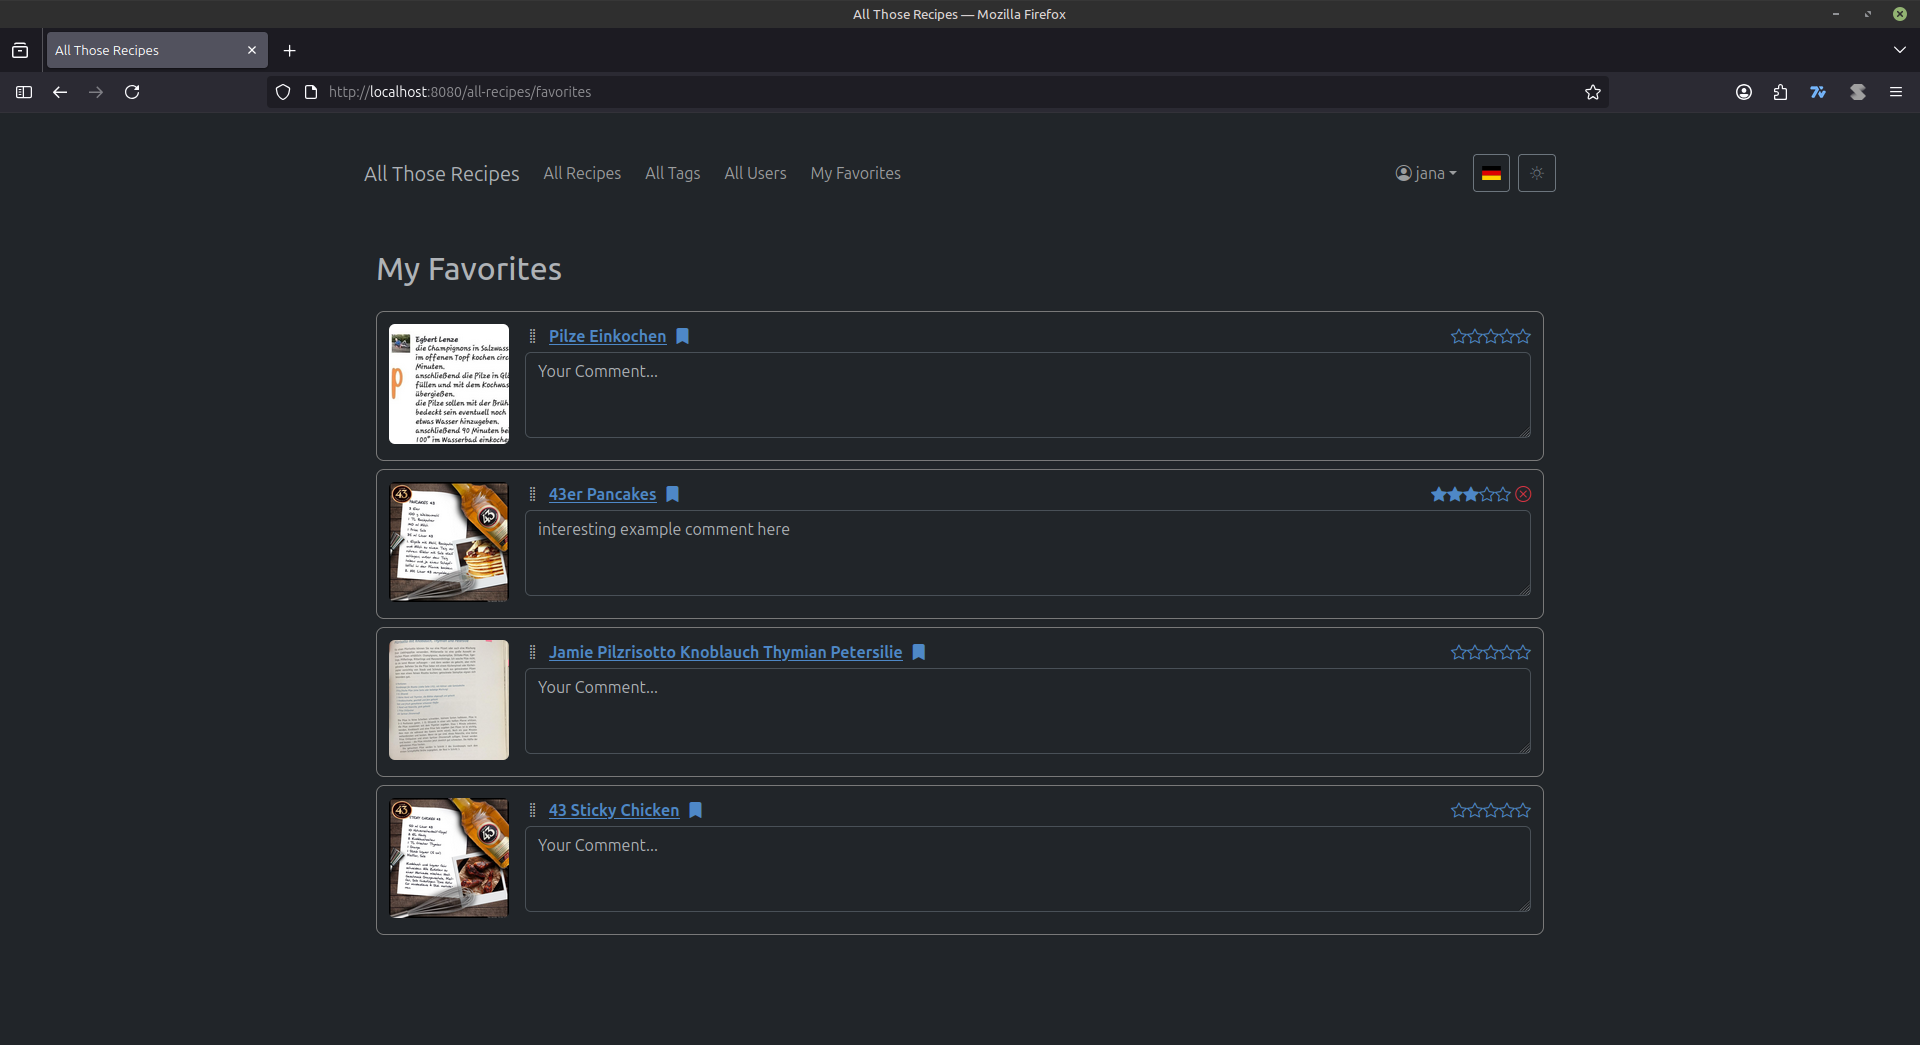
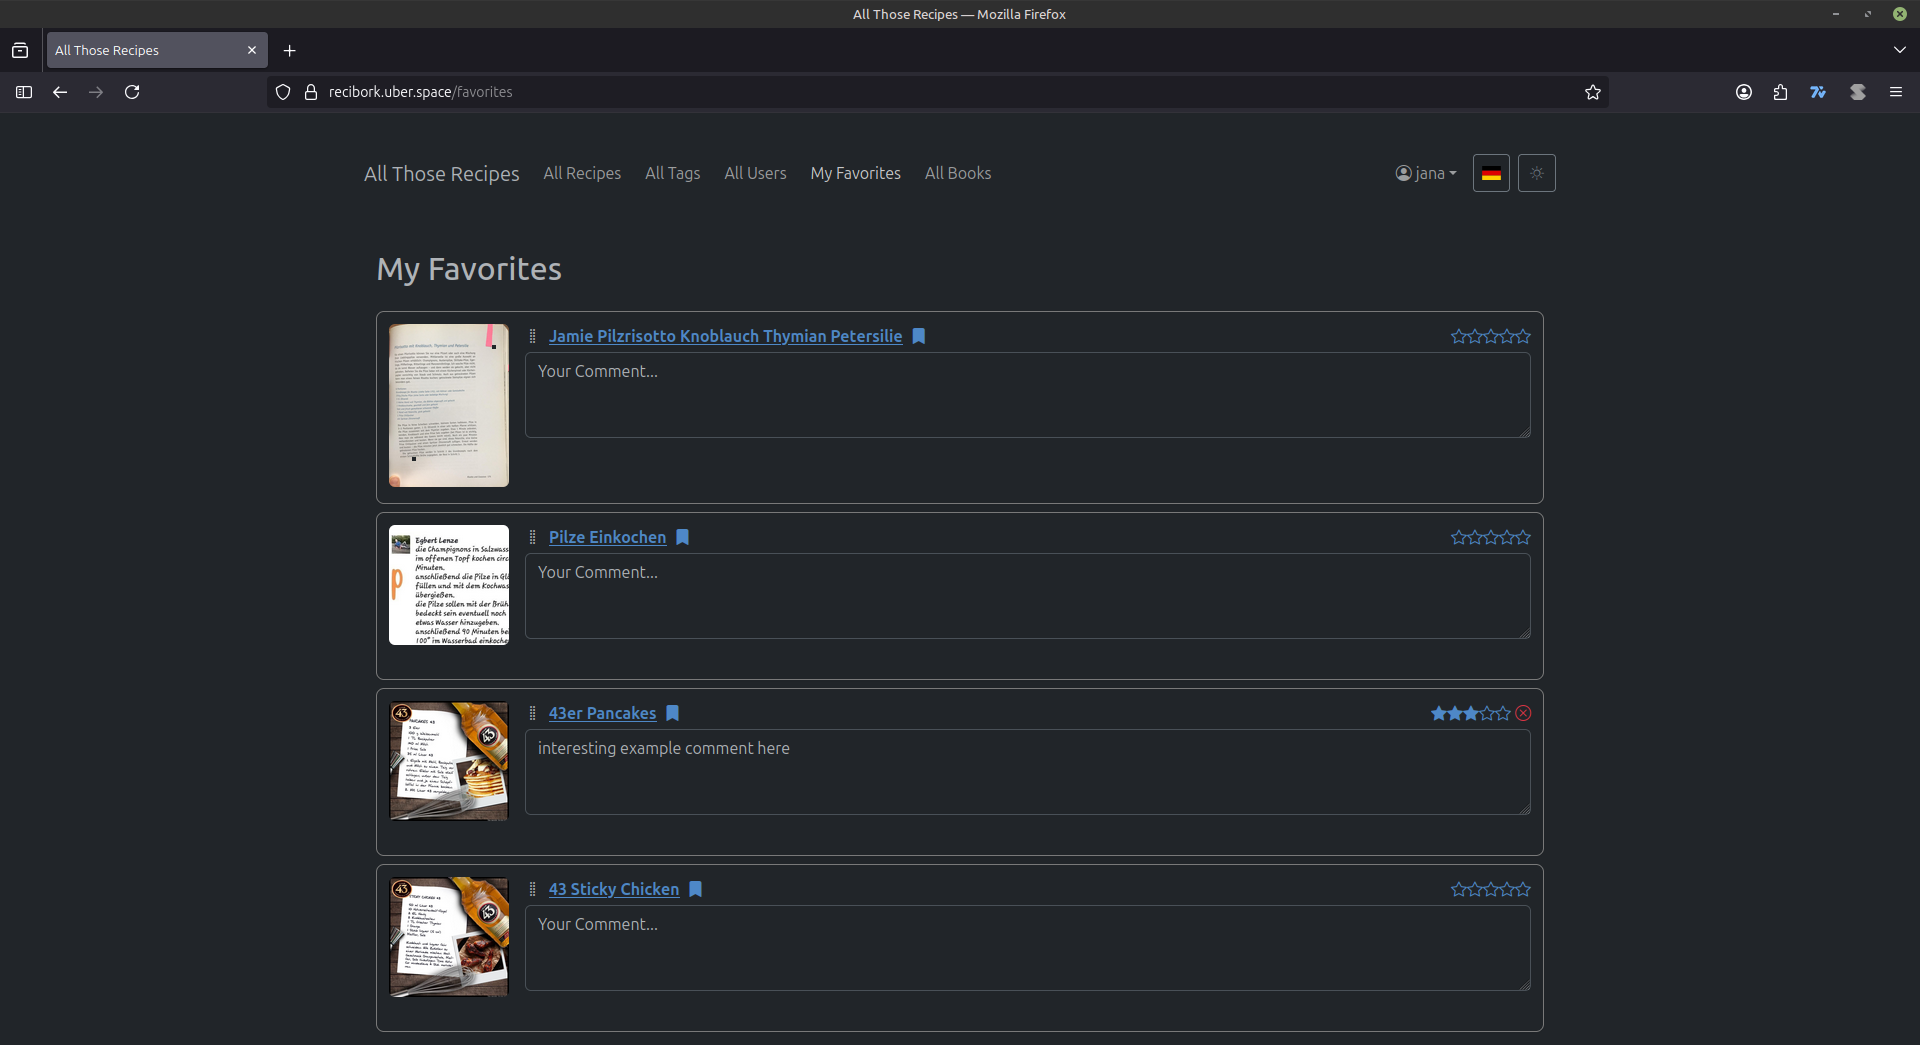
update readme

diff --git a/README.md b/README.md
@@ -2,7 +2,7 @@
 just another recipe management app for everyone collecting too many of them.
 
 ## All Recipes
-View all your recipes with their tags and ratings and quickly add or remove favorites
+View all your recipes with their tags and ratings, sort them, and quickly add or remove favorites
 ![table overview](imgs/recipes.png)
 
 Filter for tags or enter search queries
@@ -13,7 +13,7 @@ See and edit all parts of a recipe
 ![recipe details](imgs/recipe.png)
 
 ## All Tags
-Manage available tags, group them and decide which should be clickable in the recipe search
+Manage available tags, group them, and decide which should be clickable where in the recipe search
 ![tag overview](imgs/tags.png)
 
 ## All Users
@@ -26,3 +26,11 @@ Users can change their password themselves
 ## My Favorites
 Manage your personal favorites, comments and ratings. Sort them as you like
 ![my favorites](imgs/favs.png)
+
+## All Books
+Add books to collect recipes in them
+![book overview](imgs/books.png)
+
+## Book Details
+See and edit all parts of a book
+![book details](imgs/book.png)
